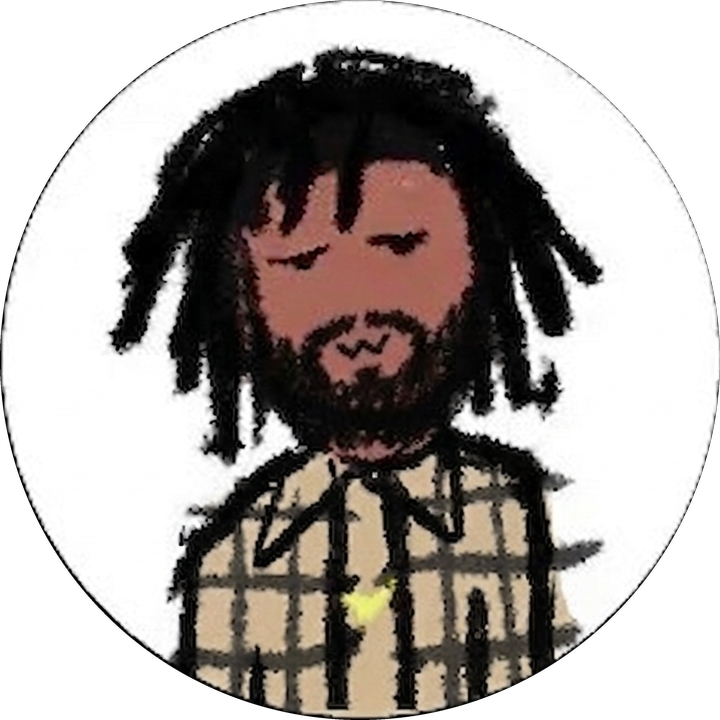
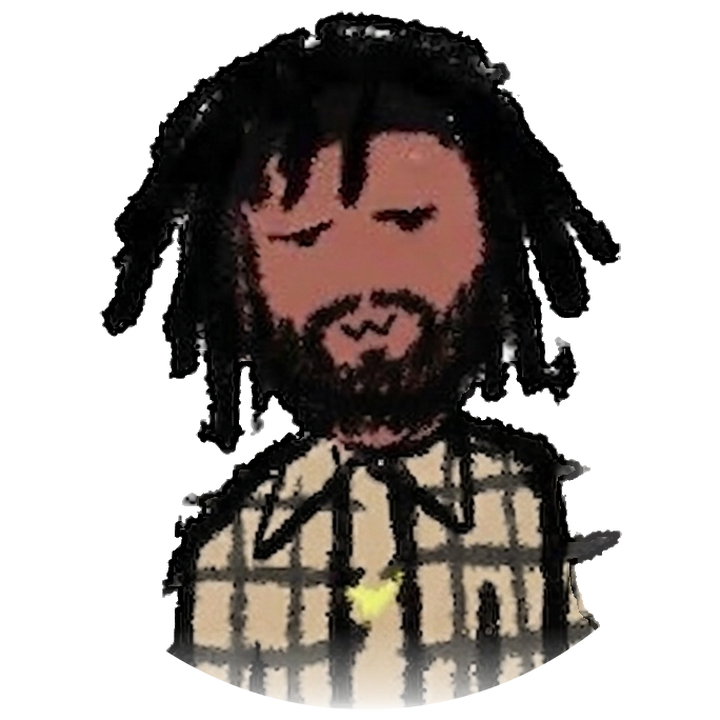
About: portrait with the background keyed out (#8)
Variant of the About portrait for comparison against the shipped white-disc
version. The illustration's white ground is flood-filled to transparency and the
figure is cropped to its own bounds, so it sits on the page ground with the
offset accent circle as its only frame — no fill, no ring boxing it in.

The keying lives in scripts/key-portrait.py so it can be re-run or tuned. Two
details it has to handle: the source has been through heavy compression, so its
silhouette is several pixels of speckle rather than a clean alpha ramp — edge
pixels therefore take their colour from the nearest solid pixel instead of
having their own grey un-blended, which otherwise leaves a bright hairline all
the way round the figure. And the shirt runs off the bottom of the source's
disc, so the last 12% of the silhouette is faded out rather than ending in a
flat arc.

Claude-Session: https://claude.ai/code/session_01Ggoia312ByCw4dyq9PgLr8

diff --git a/scripts/key-portrait.py b/scripts/key-portrait.py
@@ -1,0 +1,133 @@
+"""Key the white ground out of the avatar so the portrait sits on the page
+background instead of on a disc.
+
+The source is a 1024x1024 illustration: a white circle (centre 511.5,511.5
+r 357.5) on black, with the figure drawn inside it. It has been through heavy
+compression, so the silhouette is not a clean alpha ramp but several pixels of
+speckle. Two consequences drive the approach below:
+
+  * the ground is flood-filled from seeds on the rim rather than keyed by
+    colour, so the cream shirt and the light highlights inside the figure are
+    never mistaken for background;
+  * edge pixels are treated as partial coverage of the silhouette, taking their
+    colour from the nearest solid pixel. Un-blending their own grey instead
+    leaves a bright hairline all the way round the figure.
+"""
+from PIL import Image, ImageDraw, ImageFilter
+import math
+
+SRC, DST = 'src/assets/portrait-source.png', 'src/assets/portrait.png'
+CX, CY, R = 511.5, 511.5, 357.5
+INSET = 6      # the source's own rim is grey for ~4px; stay inside it
+SS = 4         # supersample factor for the disc mask
+GROW = 5       # half-width of the edge band, in pixels
+LO, HI = 150, 245   # min(r,g,b): <=LO full coverage, >=HI none
+
+src = Image.open(SRC).convert('RGB')
+W, H = src.size
+px = src.load()
+
+# ---------------------------------------------------------------- disc mask
+disc = Image.new('L', (W * SS, H * SS), 0)
+ImageDraw.Draw(disc).ellipse(
+    [(CX - R + INSET) * SS, (CY - R + INSET) * SS,
+     (CX + R - INSET) * SS, (CY + R - INSET) * SS], fill=255)
+disc = disc.resize((W, H), Image.BOX)
+dpx = disc.load()
+
+# ------------------------------------------------------- flood the white ground
+bg = bytearray(W * H)
+def whiteish(x, y):
+    r, g, b = px[x, y]
+    return r > 205 and g > 205 and b > 205
+
+stack = []
+for deg in range(360):
+    a = math.radians(deg)
+    for inset in (INSET + 2, INSET + 8, INSET + 16):
+        x = int(CX + (R - inset) * math.cos(a))
+        y = int(CY + (R - inset) * math.sin(a))
+        if 0 <= x < W and 0 <= y < H and dpx[x, y] and whiteish(x, y) and not bg[y * W + x]:
+            bg[y * W + x] = 1
+            stack.append((x, y))
+while stack:
+    x, y = stack.pop()
+    for nx, ny in ((x + 1, y), (x - 1, y), (x, y + 1), (x, y - 1)):
+        if 0 <= nx < W and 0 <= ny < H:
+            i = ny * W + nx
+            if not bg[i] and dpx[nx, ny] and whiteish(nx, ny):
+                bg[i] = 1
+                stack.append((nx, ny))
+
+core = Image.frombytes('L', (W, H), bytes(255 if v else 0 for v in bg))
+band = core.filter(ImageFilter.MaxFilter(GROW * 2 + 1))
+corepx, bandpx = core.load(), band.load()
+
+# --------------------------------------------- nearest solid colour, propagated
+# Everything that is neither ground nor edge band is "solid". Painting the rest
+# white and running MinFilter pushes the solid colours outward, so each band
+# pixel ends up holding the darkest solid colour near it — which, on this
+# drawing, is the ink outline that bounds the figure.
+solid = Image.new('L', (W, H), 0)
+spx = solid.load()
+for y in range(H):
+    for x in range(W):
+        spx[x, y] = 255 if (dpx[x, y] and not corepx[x, y] and not bandpx[x, y]) else 0
+prop = Image.composite(src, Image.new('RGB', (W, H), (255, 255, 255)), solid)
+for _ in range(GROW + 2):
+    prop = prop.filter(ImageFilter.MinFilter(3))
+ppx = prop.load()
+
+# ------------------------------------------------------------------- compose
+out = Image.new('RGBA', (W, H))
+opx = out.load()
+for y in range(H):
+    for x in range(W):
+        d = dpx[x, y]
+        if not d or corepx[x, y]:
+            opx[x, y] = (0, 0, 0, 0)
+            continue
+        r, g, b = px[x, y]
+        if bandpx[x, y]:
+            m = min(r, g, b)
+            a = 255 if m <= LO else (0 if m >= HI else int(255 * (HI - m) / (HI - LO)))
+            if not a:
+                opx[x, y] = (0, 0, 0, 0)
+                continue
+            pr, pg, pb = ppx[x, y]
+            if min(pr, pg, pb) < 250:
+                r, g, b = pr, pg, pb
+            else:   # nothing solid within reach — un-blend against white
+                f = a / 255.0
+                r, g, b = (min(255, max(0, int((c - 255 * (1 - f)) / f))) for c in (r, g, b))
+            a = min(a, d)
+        else:
+            a = d
+        opx[x, y] = (r, g, b, a)
+
+alpha = out.getchannel('A').point(lambda v: v if v > 6 else 0)
+
+# The shirt runs off the bottom of the source's disc, so the silhouette ends in a
+# flat arc. Fade the last few percent of it out instead, so the figure dissolves
+# into the page rather than looking sliced.
+apx = alpha.load()
+ys = [y for y in range(H) if any(apx[x, y] for x in range(0, W, 2))]
+bottom, top = ys[-1], ys[0]
+fade = int((bottom - top) * 0.12)
+for i in range(fade):
+    y = bottom - i
+    k = (i / fade) ** 0.6  # 0 at the very bottom row, 1 where the fade ends
+    for x in range(W):
+        if apx[x, y]:
+            apx[x, y] = int(apx[x, y] * k)
+out.putalpha(alpha)
+
+x0, y0, x1, y1 = alpha.getbbox()
+pad = 10
+x0, y0 = max(0, x0 - pad), max(0, y0 - pad)
+x1, y1 = min(W, x1 + pad), min(H, y1 + pad)
+side = max(x1 - x0, y1 - y0)
+cx, cy = (x0 + x1) // 2, (y0 + y1) // 2
+out = out.crop((cx - side // 2, cy - side // 2, cx - side // 2 + side, cy - side // 2 + side))
+out.resize((720, 720), Image.LANCZOS).save(DST)
+print('bbox', (x0, y0, x1, y1), '-> 720x720')
